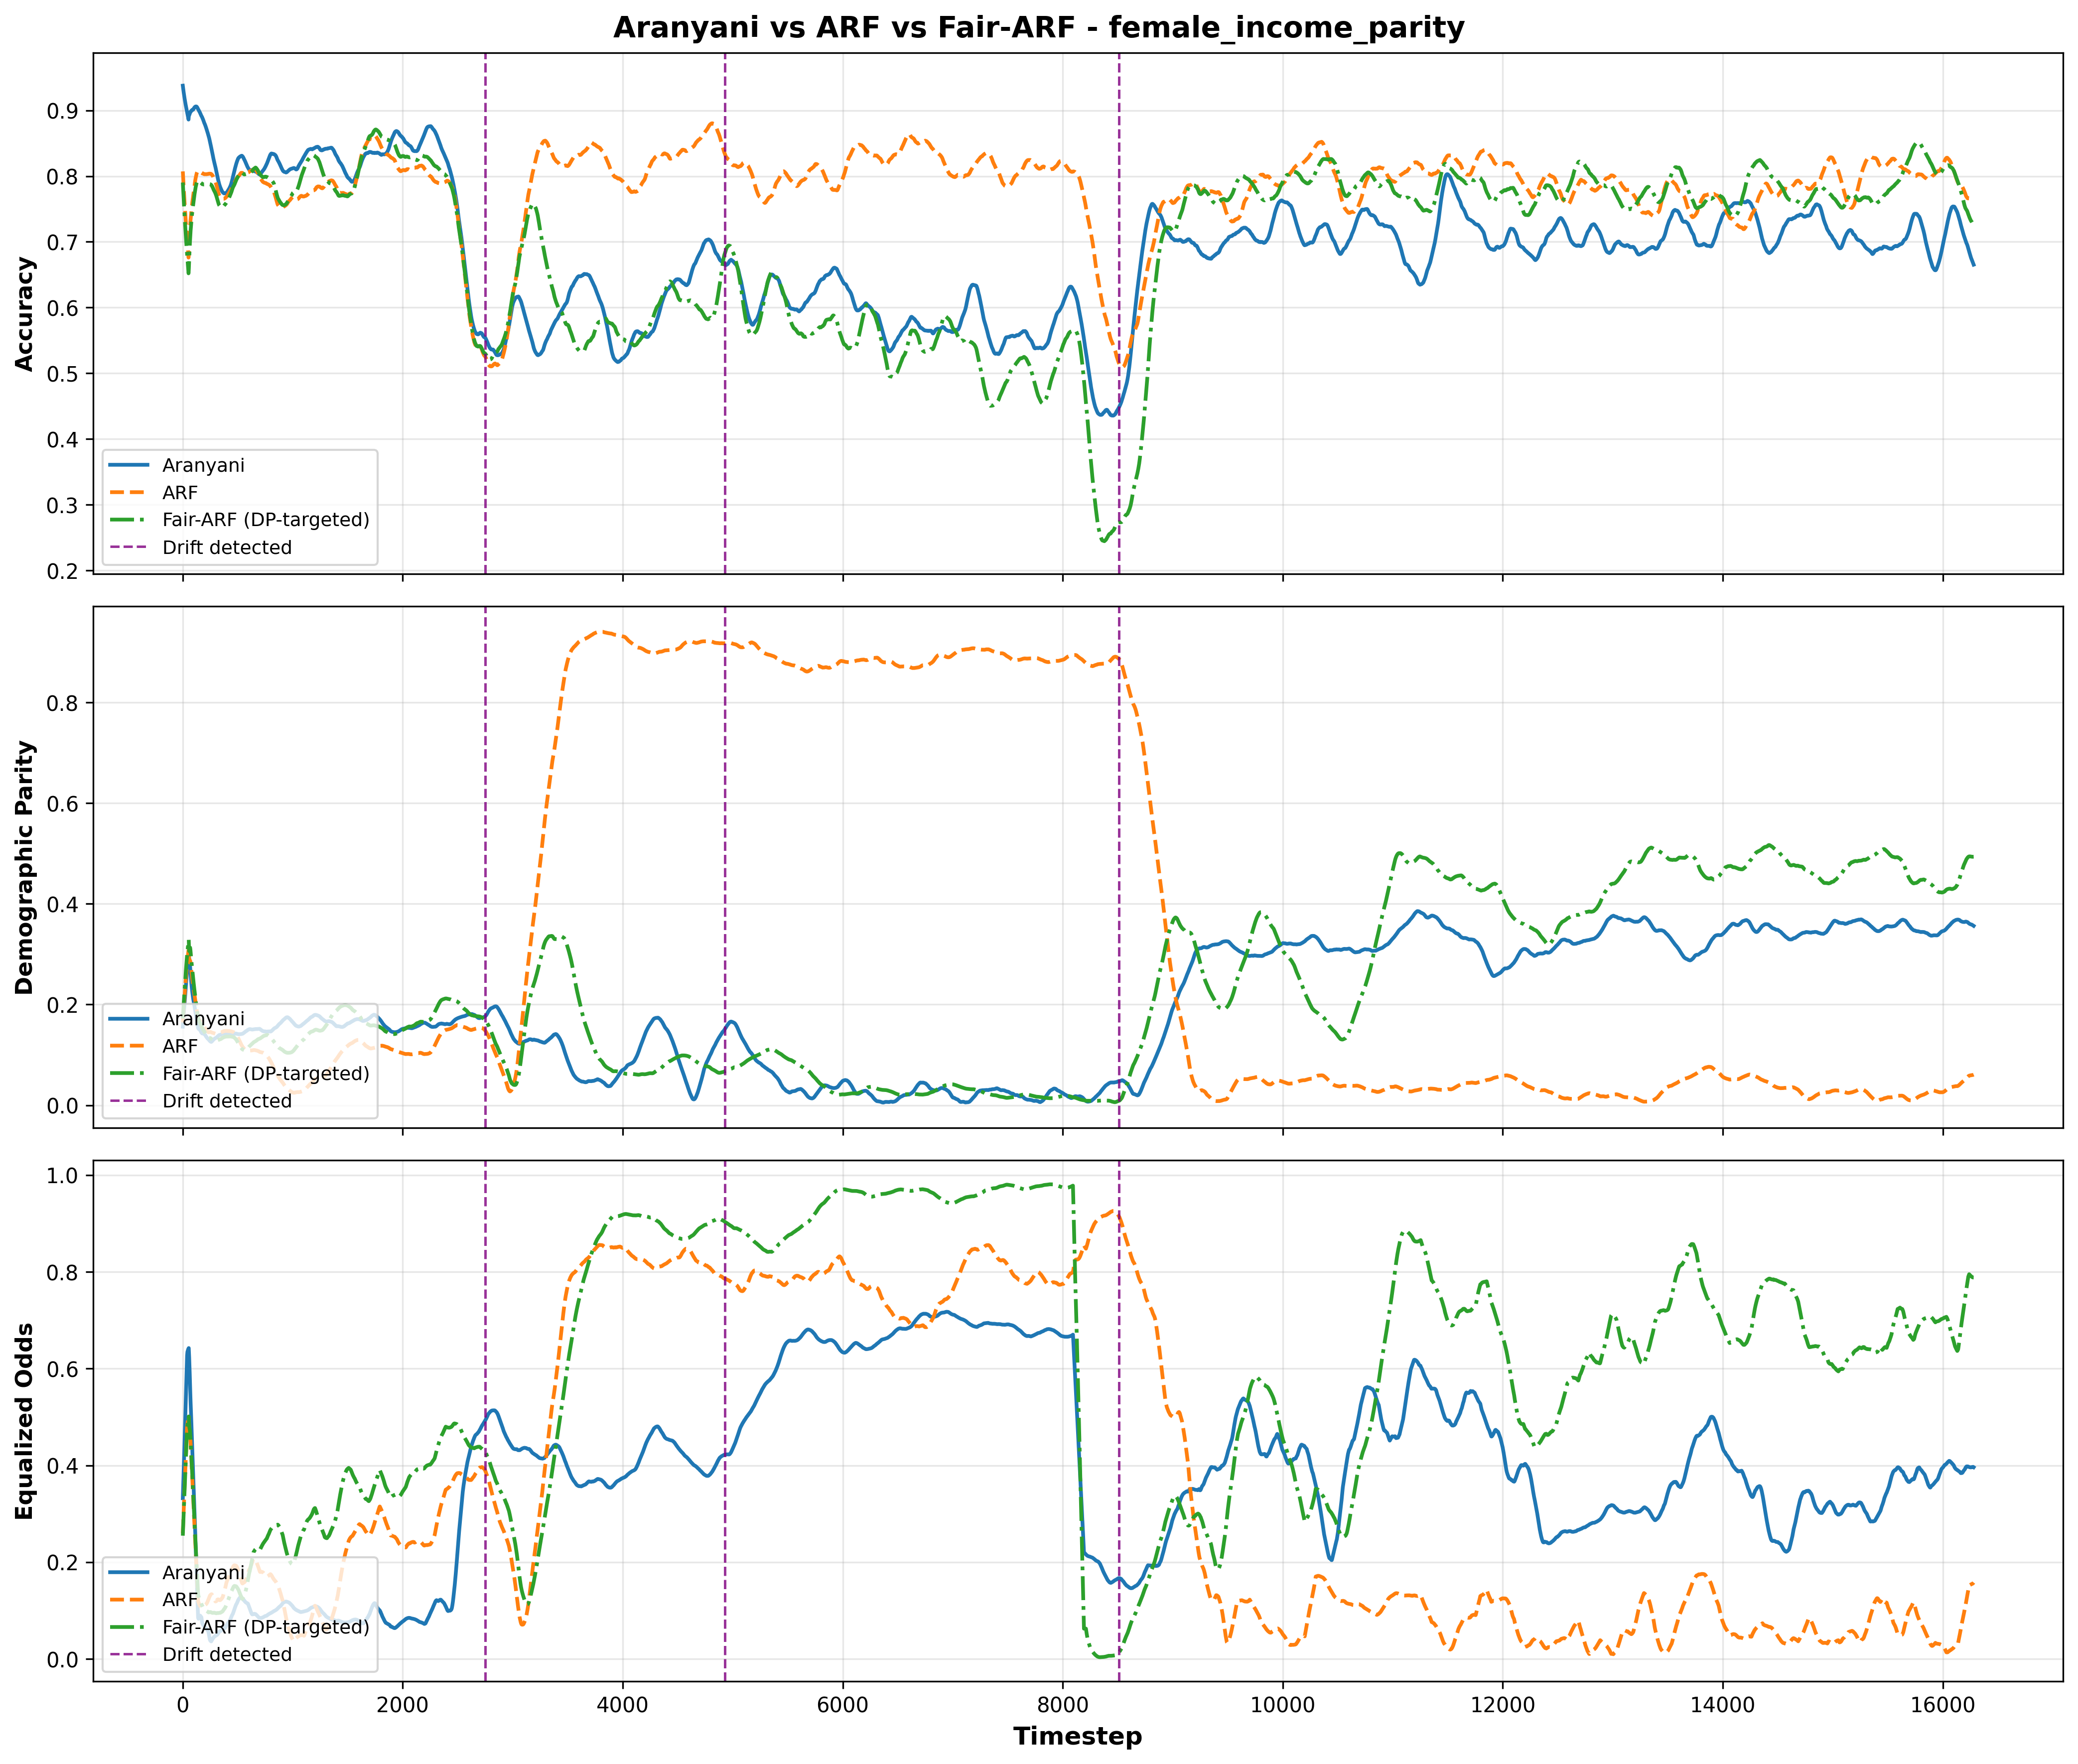
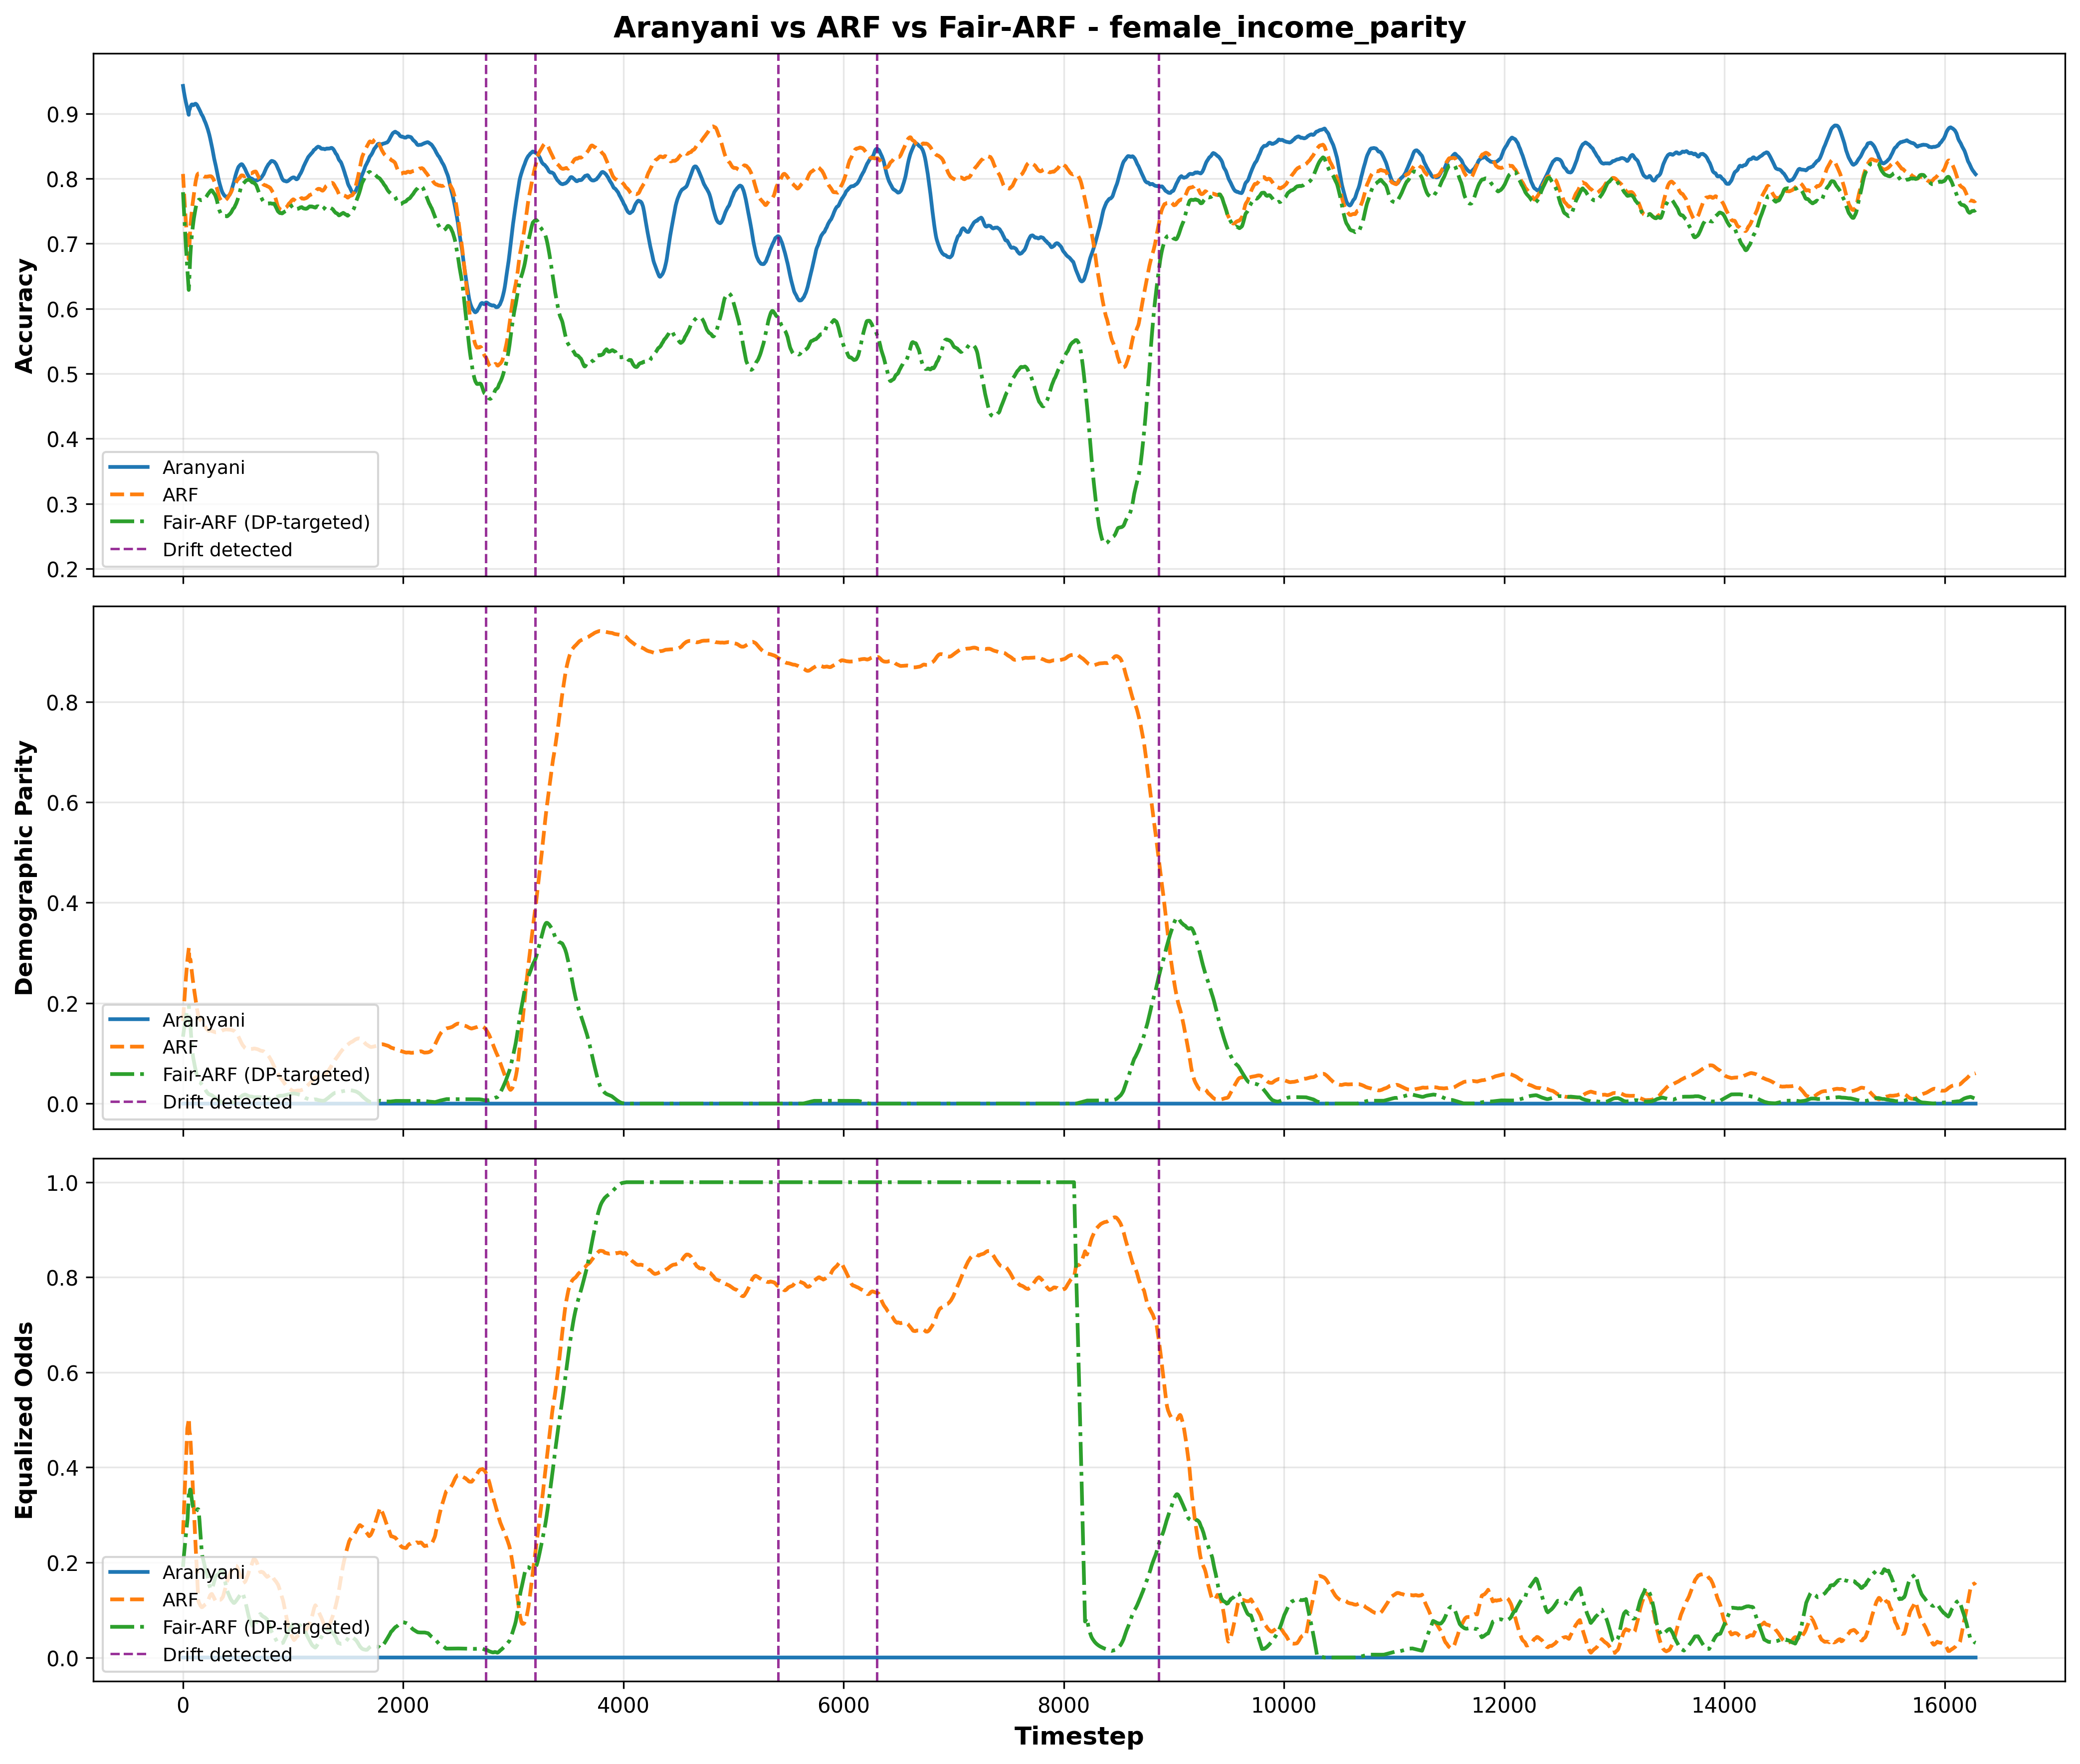
some fixes and small changes

diff --git a/src/helpers/utils.py b/src/helpers/utils.py
@@ -244,21 +244,47 @@ def maximum_mean_discrepancy(x, y, kernel_scale=1.0):
 
 def aggregate_fold_results(fold_results):
     """Aggregate metrics across folds."""
+    train_acc = [f['train_accuracies'][-1] for f in fold_results if f.get('train_accuracies')]
+    valid_folds = [f for f in fold_results if f.get('val_metrics')]
+
+    def _metric_values(metric_name, default=0.0):
+        values = []
+        for fold in valid_folds:
+            metric = fold['val_metrics']
+            if metric_name in metric:
+                values.append(metric[metric_name])
+            else:
+                values.append(metric.get(metric_name, default))
+        return values
+
+    val_acc = _metric_values('accuracy')
+    val_dp = _metric_values('dp')
+    val_sens = _metric_values('sensitivity')
+    val_auc = _metric_values('auc')
+    val_f1 = _metric_values('f1', 0.0)
+    val_eo = _metric_values('eo')
+
+    def _mean_or_nan(values):
+        return float(np.mean(values)) if values else float('nan')
+
+    def _std_or_nan(values):
+        return float(np.std(values)) if values else float('nan')
+
     return {
-        'mean_train_accuracy': np.mean([f['train_accuracies'][-1] for f in fold_results]),
-        'std_train_accuracy': np.std([f['train_accuracies'][-1] for f in fold_results]),
-        'mean_val_accuracy': np.mean([f['val_metrics']['accuracy'] for f in fold_results]),
-        'std_val_accuracy': np.std([f['val_metrics']['accuracy'] for f in fold_results]),
-        'mean_val_dp': np.mean([f['val_metrics']['dp'] for f in fold_results]),
-        'std_val_dp': np.std([f['val_metrics']['dp'] for f in fold_results]),
-        'mean_val_sensitivity': np.mean([f['val_metrics']['sensitivity'] for f in fold_results]),
-        'std_val_sensitivity': np.std([f['val_metrics']['sensitivity'] for f in fold_results]),
-        'mean_val_auc': np.mean([f['val_metrics']['auc'] for f in fold_results]),
-        'std_val_auc': np.std([f['val_metrics']['auc'] for f in fold_results]),
-        'mean_val_f1': np.mean([f['val_metrics'].get('f1', 0) for f in fold_results]),
-        'std_val_f1': np.std([f['val_metrics'].get('f1', 0) for f in fold_results]),
-        'mean_val_eo': np.mean([f['val_metrics']['eo'] for f in fold_results]),
-        'std_val_eo': np.std([f['val_metrics']['eo'] for f in fold_results]),
+        'mean_train_accuracy': _mean_or_nan(train_acc),
+        'std_train_accuracy': _std_or_nan(train_acc),
+        'mean_val_accuracy': _mean_or_nan(val_acc),
+        'std_val_accuracy': _std_or_nan(val_acc),
+        'mean_val_dp': _mean_or_nan(val_dp),
+        'std_val_dp': _std_or_nan(val_dp),
+        'mean_val_sensitivity': _mean_or_nan(val_sens),
+        'std_val_sensitivity': _std_or_nan(val_sens),
+        'mean_val_auc': _mean_or_nan(val_auc),
+        'std_val_auc': _std_or_nan(val_auc),
+        'mean_val_f1': _mean_or_nan(val_f1),
+        'std_val_f1': _std_or_nan(val_f1),
+        'mean_val_eo': _mean_or_nan(val_eo),
+        'std_val_eo': _std_or_nan(val_eo),
     }
 
 def evaluate_over_timesteps(model, x_test, y_test, a_test, data_dim,
@@ -397,13 +423,13 @@ def evaluate_over_timesteps(model, x_test, y_test, a_test, data_dim,
             for tree in model.layers:
                 if hasattr(tree, 'temperature'):
                     tree.temperature.assign(0.1)
-        w_a_arr = np.array(w_a)
-        if np.sum(w_a_arr == 0) > 0 and np.sum(w_a_arr == 1) > 0:
-            dp_val, _ = get_demographic_parity(w_preds, w_a)
-            eo_val, _ = get_equalized_odds(w_preds, w_a, w_true)
-        else:
-            dp_val = 0.0
-            eo_val = 0.0
+        dp_val, eo_val = _compute_window_fairness(
+            y_preds_all=y_preds_all,
+            y_true_all=y_true_all,
+            a_all=a_all,
+            fairness_start=fairness_start,
+            fairness_window=FAIRNESS_WINDOW,
+        )
 
         dps.append(float(dp_val))
         eos.append(float(eo_val))
@@ -527,17 +553,13 @@ def evaluate_arf_over_timesteps(x_test, y_test, a_test, accuracy_window=200):
         accuracies.append(float(sum(correct_buffer)) / len(correct_buffer))
 
         # Fairness over rolling window
-        w_start = max(0, t + 1 - FAIRNESS_WINDOW)
-        w_preds = y_preds_all[w_start:]
-        w_true  = y_true_all[w_start:]
-        w_a     = a_all[w_start:]
-        w_a_arr = np.array(w_a)
-        if np.sum(w_a_arr == 0) > 0 and np.sum(w_a_arr == 1) > 0:
-            dp_val, _ = get_demographic_parity(w_preds, w_a)
-            eo_val, _ = get_equalized_odds(w_preds, w_a, w_true)
-        else:
-            dp_val = 0.0
-            eo_val = 0.0
+        dp_val, eo_val = _compute_window_fairness(
+            y_preds_all=y_preds_all,
+            y_true_all=y_true_all,
+            a_all=a_all,
+            fairness_start=0,
+            fairness_window=FAIRNESS_WINDOW,
+        )
         dps.append(float(dp_val))
         eos.append(float(eo_val))
 
@@ -560,6 +582,33 @@ def _compute_dp_from_preds(preds, groups):
         return 0.0
     preds_arr = np.array(preds)
     return float(np.abs(np.mean(preds_arr[groups_arr == 1]) - np.mean(preds_arr[groups_arr == 0])))
+
+
+def _compute_window_fairness(y_preds_all, y_true_all, a_all, fairness_start, fairness_window):
+    w_start = max(fairness_start, len(y_preds_all) - fairness_window)
+    w_preds = y_preds_all[w_start:]
+    w_true = y_true_all[w_start:]
+    w_a = a_all[w_start:]
+
+    w_a_arr = np.array(w_a)
+    has_group0 = np.sum(w_a_arr == 0) > 0
+    has_group1 = np.sum(w_a_arr == 1) > 0
+
+    if not (has_group0 and has_group1):
+        # Fallback to all seen samples if the active window is too small.
+        all_a_arr = np.array(a_all)
+        all_has_group0 = np.sum(all_a_arr == 0) > 0
+        all_has_group1 = np.sum(all_a_arr == 1) > 0
+        if all_has_group0 and all_has_group1:
+            w_preds = y_preds_all
+            w_true = y_true_all
+            w_a = a_all
+        else:
+            return 0.0, 0.0
+
+    dp_val, _ = get_demographic_parity(w_preds, w_a)
+    eo_val, _ = get_equalized_odds(w_preds, w_a, w_true)
+    return float(dp_val), float(eo_val)
 
 
 def _choose_group_threshold_for_target_dp(probs_window, groups_window, target_dp,
@@ -654,16 +703,13 @@ def evaluate_fair_arf_over_timesteps(x_test, y_test, a_test, target_dp_series,
             correct_buffer.pop(0)
         accuracies.append(float(sum(correct_buffer)) / len(correct_buffer))
 
-        w_preds = y_preds_all[w_start:]
-        w_true = y_true_all[w_start:]
-        w_a = a_all[w_start:]
-        w_a_arr = np.array(w_a)
-        if np.sum(w_a_arr == 0) > 0 and np.sum(w_a_arr == 1) > 0:
-            dp_val, _ = get_demographic_parity(w_preds, w_a)
-            eo_val, _ = get_equalized_odds(w_preds, w_a, w_true)
-        else:
-            dp_val = 0.0
-            eo_val = 0.0
+        dp_val, eo_val = _compute_window_fairness(
+            y_preds_all=y_preds_all,
+            y_true_all=y_true_all,
+            a_all=a_all,
+            fairness_start=0,
+            fairness_window=fairness_window,
+        )
         dps.append(float(dp_val))
         eos.append(float(eo_val))
         dp_target_errors.append(abs(float(dp_val) - target_dp))

diff --git a/src/forest/train.py b/src/forest/train.py
@@ -75,6 +75,7 @@ def _load_prequential_nsga2_config():
       'sample_size': 800,
       'seed': 42,
       'target_drift_rate': 0.01,
+      'static_params': {},
   }
   if not os.path.exists(NSGA2_PREQ_CONFIG_PATH):
     return cfg
@@ -89,12 +90,26 @@ def _load_prequential_nsga2_config():
   cfg['fairness_type'] = str(cfg.get('fairness_type', 'dp')).lower()
   if cfg['fairness_type'] not in ['dp', 'eo']:
     cfg['fairness_type'] = 'dp'
+
+  static_params = cfg.get('static_params', {})
+  if not isinstance(static_params, dict):
+    static_params = {}
+
+  int_keys = ['lr_decay_steps', 'fairness_window', 'cooldown', 'min_samples_per_stream']
+  normalized_static_params = {}
+  for key, value in static_params.items():
+    if key in int_keys:
+      normalized_static_params[key] = int(round(float(value)))
+    else:
+      normalized_static_params[key] = float(value)
+  cfg['static_params'] = normalized_static_params
   return cfg
 
 
 def _tune_prequential_static_params(base_model, x_stream, y_stream, a_stream, data_dim,
                                     compute_fairness, lambda_const, depth, num_trees,
                                     constraint_type, gradient_type, base_gamma, preq_cfg):
+  print("FIRST TUNING ON TRAINING DATA")
   if not bool(preq_cfg['enabled']):
     return None
   if x_stream is None or len(x_stream) == 0:
@@ -271,6 +286,7 @@ def train(
                 compute_fairness, lambda_const, depth, num_trees,
                 constraint_type, gradient_type, base_gamma, preq_cfg,
             )
+            static_params_to_use = tuned_static_params or preq_cfg.get('static_params') or None
             print("\nRunning prequential (test-then-train) evaluation...")
             # Reload a fresh copy so baseline and prequential start from
             # the same weights and we can compare fairly.
@@ -286,7 +302,7 @@ def train(
                 constraint_type=constraint_type,
                 gradient_type=gradient_type,
                 base_gamma=base_gamma,
-                static_params=tuned_static_params,
+                static_params=static_params_to_use,
             )
             plot_metrics_over_timesteps(preq_results,
                                         save_path='files/metrics_prequential.png')
@@ -425,6 +441,9 @@ def train(
     print(f"  Test F1-Score: {test_result['f1']:.4f}")
     print(f"  Test EO: {test_result['eo']:.4f}")
     print(f"{'='*80}\n")
+  elif use_actual_test_set and prequential:
+    # In prequential mode we skip one-shot test metrics and evaluate over timesteps below.
+    print("\nPrequential mode enabled with test set: skipping one-shot test metric aggregation.")
   else:
     avg_metrics = utils.aggregate_fold_results(fold_results)
 
@@ -450,6 +469,7 @@ def train(
           compute_fairness, lambda_const, depth, num_trees,
           constraint_type, gradient_type, base_gamma, preq_cfg,
       )
+      static_params_to_use = tuned_static_params or preq_cfg.get('static_params') or None
       print("\nRunning prequential (test-then-train) evaluation...")
       import copy
       preq_model = copy.deepcopy(fold_results[0]['model'])
@@ -464,7 +484,7 @@ def train(
           constraint_type=constraint_type,
           gradient_type=gradient_type,
           base_gamma=base_gamma,
-          static_params=tuned_static_params,
+            static_params=static_params_to_use,
       )
       plot_metrics_over_timesteps(preq_results,
                                   save_path='files/metrics_prequential.png')

diff --git a/src/forest/aranyani.py b/src/forest/aranyani.py
@@ -97,7 +97,7 @@ def train_online(
       dp, dp_sign = dp_function(
           y_predictions, protected_targets[: len(y_predictions)])
       eo, eo_sign = utils.get_equalized_odds(
-          y_predictions, y_true_all, protected_targets[: len(y_predictions)])
+          y_predictions, protected_targets[: len(y_predictions)], y_true_all)
 
       demographic_parities.append(dp)
       equalized_odds.append(eo)